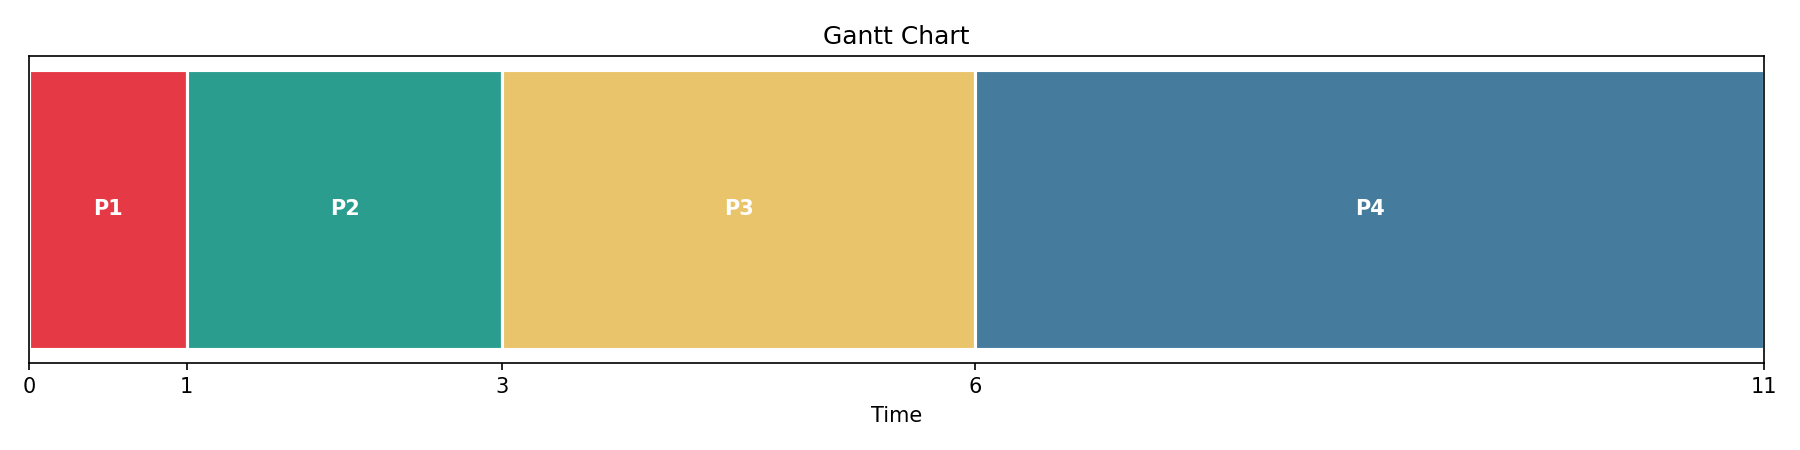
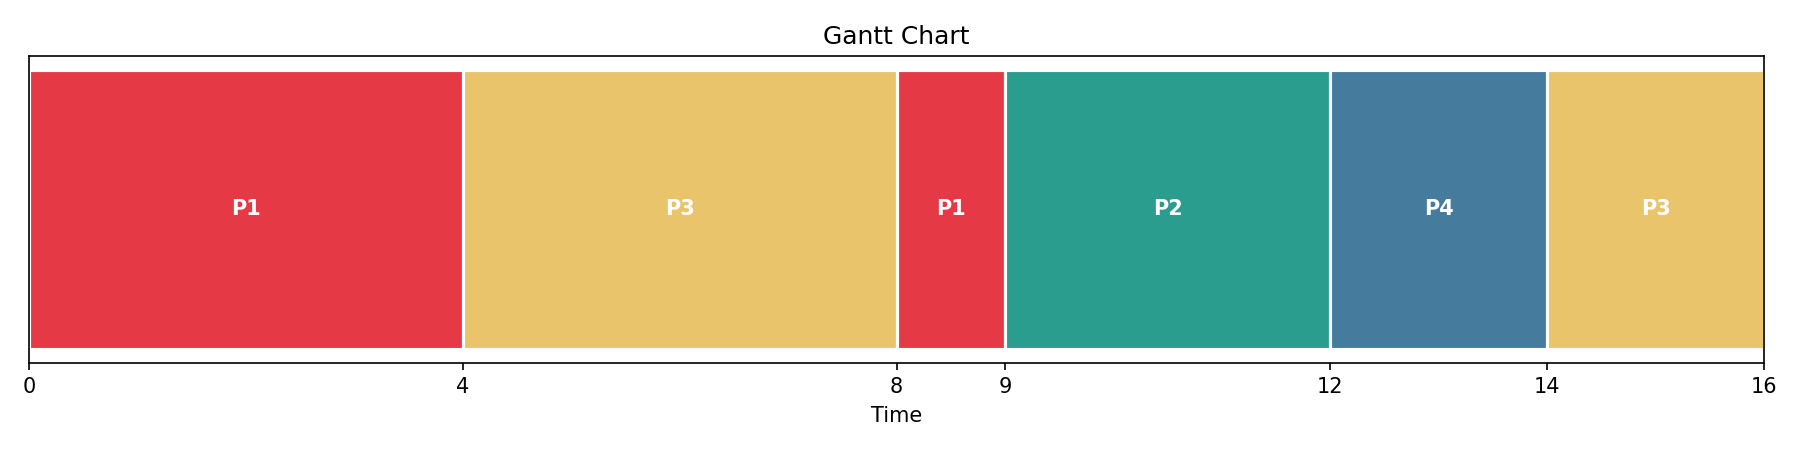
integrated dynamic process adding with rr

diff --git a/schedulers_simulator/round_robin.py b/schedulers_simulator/round_robin.py
@@ -25,8 +25,8 @@ class RoundRobinScheduler:
         fig.canvas.flush_events()
         plt.pause(0.001)
         
-    def runRoundRobin(self, current_processes : list[Process],
-                      live_sim: bool = False, fig = None, ax = None) -> tuple[list, int, float, float]:
+    def runRoundRobin(self, current_processes : list[Process], new_process_queue = None,
+                      live_sim: bool = False, pause_event = None , fig = None, ax = None) -> tuple[list, int, float, float]:
         """
         Args:
             processes (list[Process]):  A list of Process objects
@@ -42,23 +42,35 @@ class RoundRobinScheduler:
         self.processes = current_processes.copy()
         if live_sim:
             self._live_redraw(ax, self.process_time_ranges)
-            # self.drawGant(self.process_time_ranges, live=True)
         unarrived_processes : list[Process] = []
         
         # To Loop Back Again
         while(current_processes or unarrived_processes):
+            if live_sim:
+                if pause_event:
+                    pause_event.wait()
+                
+            if new_process_queue:
+                while not new_process_queue.empty():
+                    new_p = new_process_queue.get()
+                    # new_p.original_arrival_time = new_p.arrival_time + self.current_time 
+                    current_processes.append(new_p)
+                    self.processes.append(new_p)
+                    print(f"\n [+] P{new_p.num} joined the simulation!")
+
             
             for process in current_processes.copy():
                 if process.arrival_time > self.current_time:
                     if current_processes:
                         current_processes.remove(process)
-                    unarrived_processes.insert(0, process)
+                    unarrived_processes.append(process)
+                    unarrived_processes.sort(key=lambda p: (p.arrival_time, p.num))
                     
             for process in unarrived_processes.copy():
                 if process.arrival_time <= self.current_time:
                     if unarrived_processes:
                         unarrived_processes.remove(process)
-                    current_processes.insert(0, process)
+                    current_processes.append(process)
                         
             print(f"============\nROUND ROBIN: Current Processes: {[process.num for process in current_processes]}")
             if current_processes:
@@ -72,10 +84,12 @@ class RoundRobinScheduler:
                     for t in range(self.quantum):
                         self.current_time += 1
                         if live_sim:
+                            if pause_event:
+                                pause_event.wait()
                             plt.pause(1)
                         else:
                             time.sleep(1)
-                        process.burst_time = process.burst_time - 1
+                        process.burst_time -= 1
                         print(f"Executing process {process.num} for {t+1} seconds. Remaining burst time: {process.burst_time}")
                         
                         if live_sim:
@@ -83,11 +97,6 @@ class RoundRobinScheduler:
                             if self.current_time > process.start_time:
                                 active_history.append((process.num, process.start_time, self.current_time))
                             self._live_redraw(ax, active_history)
-                            # self.drawGant(
-                            #     self.process_time_ranges,
-                            #     live=True,
-                            #     active_segment=(process.num, process.start_time, self.current_time),
-                            # )
 
                         # Process ends before quantum is done
                         if process.burst_time <= 0: 
@@ -101,7 +110,6 @@ class RoundRobinScheduler:
                             process_removed_flag = True
                             if live_sim:
                                 self._live_redraw(ax, self.process_time_ranges)
-                                # self.drawGant(self.process_time_ranges, live=True)
                             break
                         
                     # Do not increment i if a process is removed. As processes shifts down.    
@@ -111,7 +119,6 @@ class RoundRobinScheduler:
                         self.process_time_ranges.append((process.num, process.start_time, process.finish_time))
                         if live_sim:
                             self._live_redraw(ax, self.process_time_ranges)
-                            # self.drawGant(self.process_time_ranges, live=True)
             else:
                 if live_sim:
                     plt.pause(1)
@@ -120,12 +127,11 @@ class RoundRobinScheduler:
                 self.current_time += 1    
         if live_sim:    
             self._live_redraw(ax, self.process_time_ranges)
-            # self.drawGant(self.process_time_ranges, live=True, finalize=True)
         
         return (self.process_time_ranges,
                 self.current_time,
-                self.calculateAverageWaitingTime(self.process_time_ranges),
-                self.calculateAverageTurnAroundTime(self.process_time_ranges))
+                self.calculateAverageTurnAroundTime(self.process_time_ranges),
+                self.calculateAverageWaitingTime(self.process_time_ranges))
     
 
     def calculateAverageWaitingTime(self, process_time_ranges: list[tuple[int, int, int]]) -> float:

diff --git a/schedulers_simulator/tempCodeRunnerFile.py b/schedulers_simulator/tempCodeRunnerFile.py
@@ -1,0 +1,1 @@
+sjf_preemptive